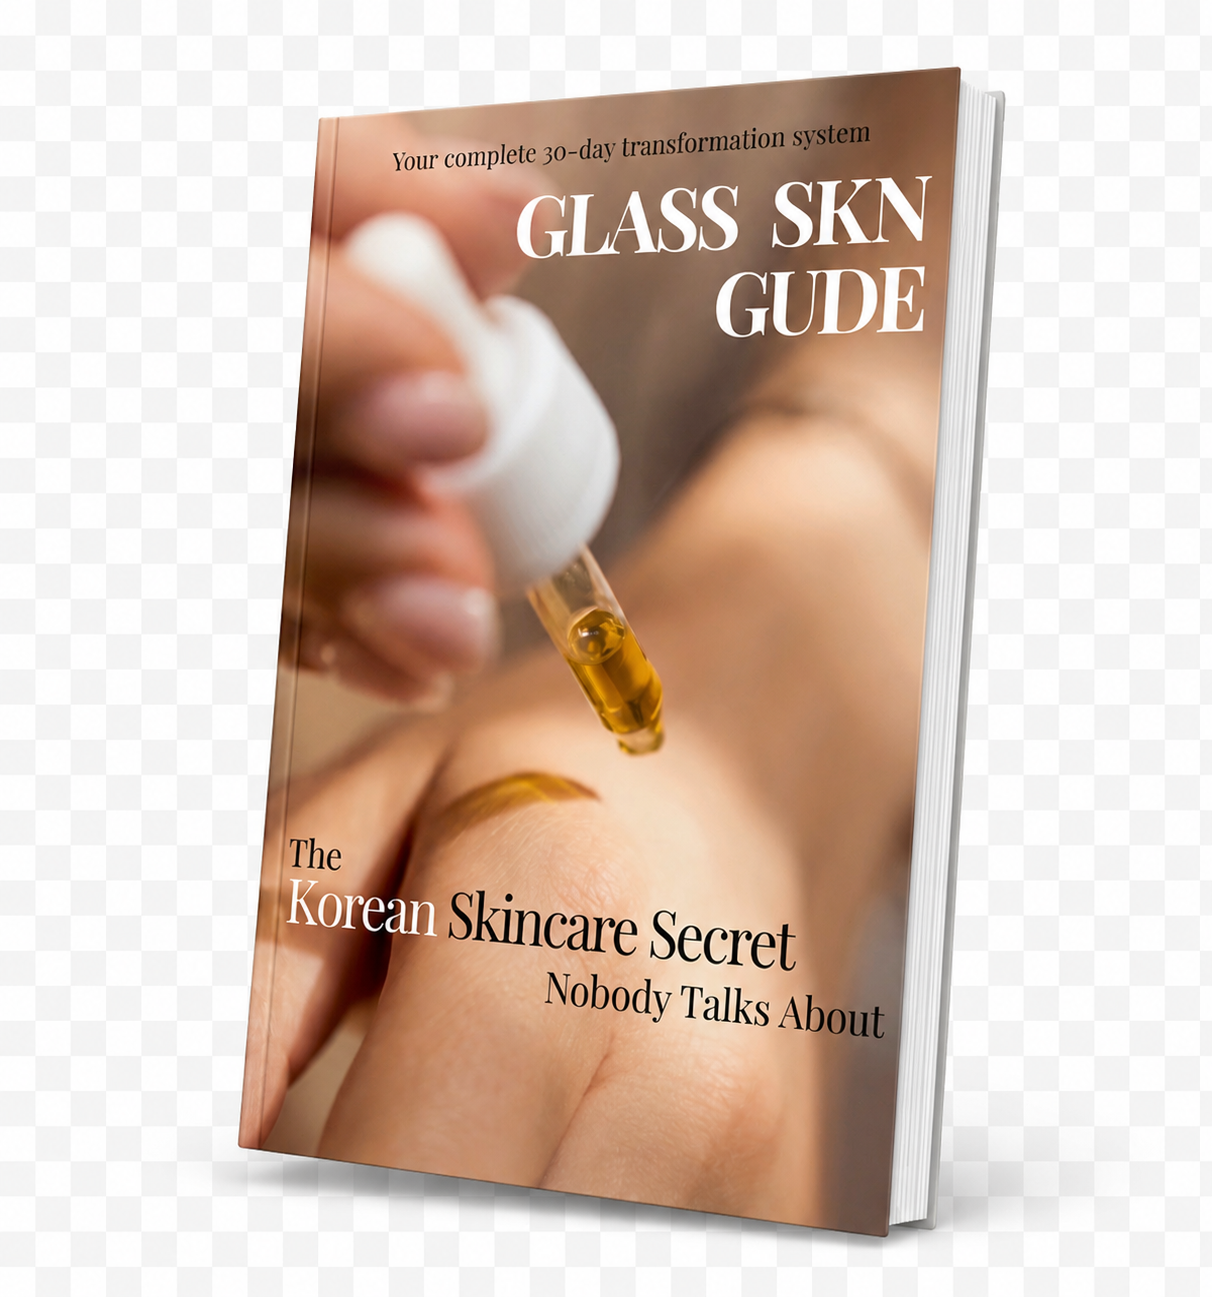
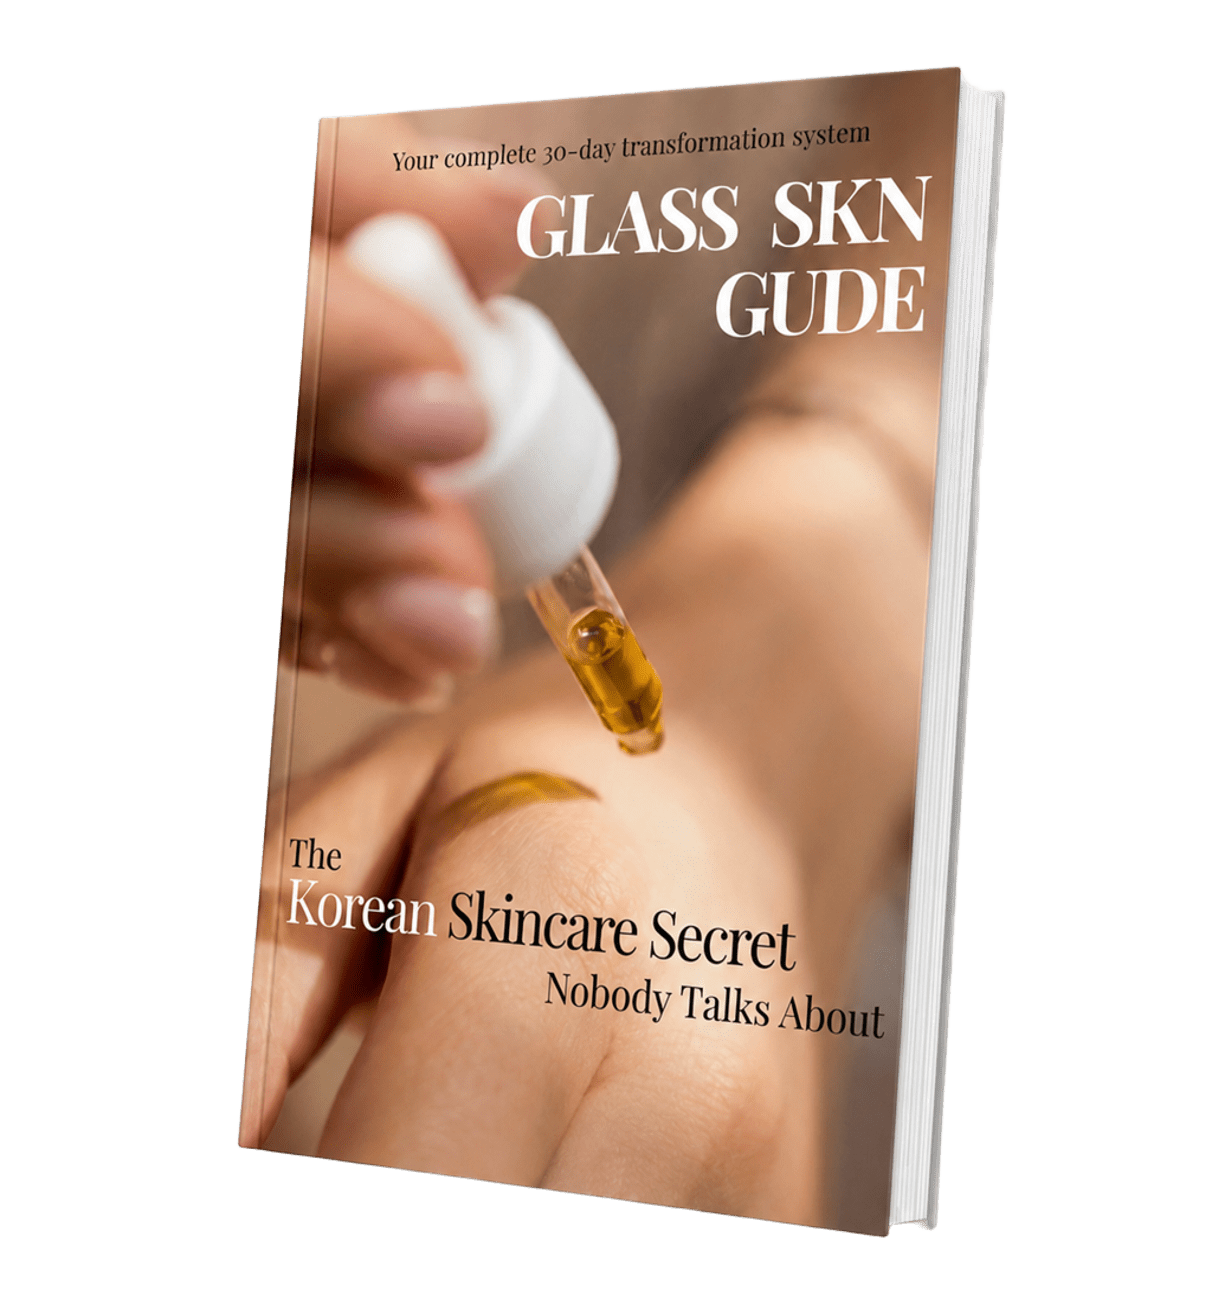
Add preview section

diff --git a/assets/css/style.css b/assets/css/style.css
@@ -680,3 +680,143 @@ color:#8FAF8F;
 font-weight:600;
 
 }
+/* ===========================
+   PREVIEW SECTION
+=========================== */
+
+.preview-section{
+padding:120px 0;
+background:#f8f6f2;
+}
+
+.section-label{
+
+display:inline-block;
+
+margin-bottom:18px;
+
+font-size:.8rem;
+
+letter-spacing:.18em;
+
+text-transform:uppercase;
+
+color:#6d8765;
+
+font-weight:600;
+
+}
+
+.section-title{
+
+font-size:3rem;
+
+line-height:1.15;
+
+margin-bottom:18px;
+
+max-width:700px;
+
+}
+
+.section-subtitle{
+
+max-width:700px;
+
+font-size:1.15rem;
+
+line-height:1.8;
+
+color:#6b6b6b;
+
+margin-bottom:60px;
+
+}
+
+.preview-grid{
+
+display:grid;
+
+grid-template-columns:repeat(2,1fr);
+
+gap:35px;
+
+}
+
+.preview-card{
+
+position:relative;
+
+overflow:hidden;
+
+border-radius:28px;
+
+background:#fff;
+
+box-shadow:0 30px 70px rgba(0,0,0,.08);
+
+transition:.35s ease;
+
+}
+
+.preview-card:hover{
+
+transform:translateY(-10px);
+
+box-shadow:0 45px 90px rgba(0,0,0,.12);
+
+}
+
+.preview-card img{
+
+display:block;
+
+width:100%;
+
+height:auto;
+
+}
+
+.preview-last{
+
+grid-column:1/3;
+
+max-width:700px;
+
+margin:auto;
+
+}
+
+.locked-overlay{
+
+position:absolute;
+
+left:0;
+
+right:0;
+
+bottom:0;
+
+padding:26px;
+
+background:linear-gradient(to top,rgba(0,0,0,.88),rgba(0,0,0,.05));
+
+color:white;
+
+font-size:1.1rem;
+
+font-weight:600;
+
+text-align:center;
+
+backdrop-filter:blur(2px);
+
+}
+
+.preview-section .btn-primary{
+
+display:inline-block;
+
+margin-top:60px;
+
+}

diff --git a/index.html b/index.html
@@ -50,6 +50,54 @@
     </div>
   </div>
 </section>
+<section class="preview-section">
+
+<div class="container">
+
+<div class="section-label">LOOK INSIDE</div>
+
+<h2 class="section-title">
+Preview the first pages before you buy.
+</h2>
+
+<p class="section-subtitle">
+See exactly how the guide is structured. Read the introduction, understand your skin type, and start the Morning Routine before unlocking the complete 20-page system.
+</p>
+
+<div class="preview-grid">
+
+<div class="preview-card">
+<img src="assets/images/preview/page1.jpg" alt="Glass Skin Guide Page 1">
+</div>
+
+<div class="preview-card">
+<img src="assets/images/preview/page2.jpg" alt="Glass Skin Guide Page 2">
+</div>
+
+<div class="preview-card">
+<img src="assets/images/preview/page3.jpg" alt="Glass Skin Guide Page 3">
+</div>
+
+<div class="preview-card">
+<img src="assets/images/preview/page4.jpg" alt="Glass Skin Guide Page 4">
+</div>
+
+<div class="preview-card preview-last">
+<img src="assets/images/preview/page5.jpg" alt="Morning Routine">
+<div class="locked-overlay">
+🔒 Continue reading after purchase
+</div>
+</div>
+
+</div>
+
+<a href="https://kloreskin.gumroad.com/l/kloreskin" class="btn-primary">
+Unlock the Full Guide →
+</a>
+
+</div>
+
+</section>
 
 <!-- TRUST BAR -->
 <div class="trust-bar">